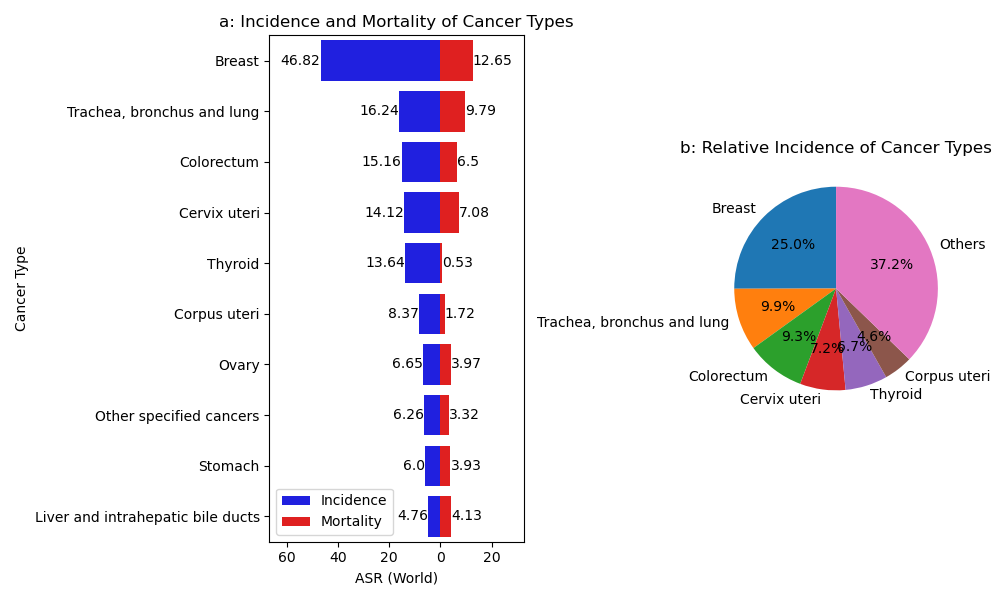
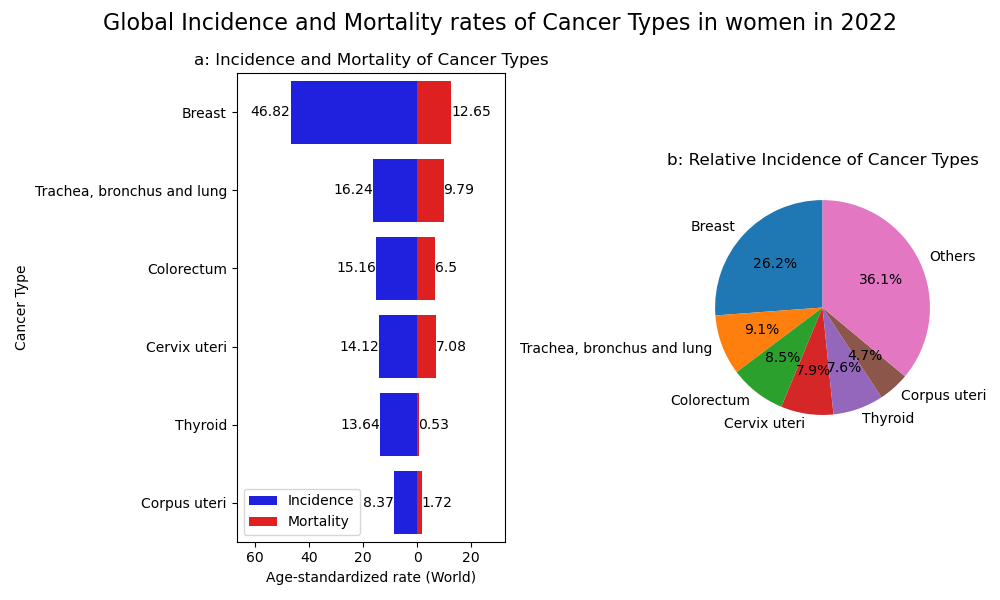
Update BrCa incidence figure

diff --git a/chapters/background/1_brca.tex b/chapters/background/1_brca.tex
@@ -17,9 +17,18 @@ systems\supercite{lei_global_2021}.
     \centering
 
     \includegraphics[width=\textwidth]{chapters/background/figures/incidence.png}
-    \caption{Age-standardized rates of incidence and mortality in women of
-        the 15 most abundant cancer types globally in
-        2022\supercite{bray_global_2024,ferlay_global_2024}.}
+    \caption{Overview of the cancer types with the highest global incidence in
+        females in 2022.
+        Data was obtained from the Global Cancer Observatory
+        \supercite{bray_global_2024,ferlay_global_2024}.
+        Both subplots show the 6 cancer types with the highest incidence.
+        The numbers represent the age-standardized rates of incidence and mortality per
+        100,000 individuals.
+        Age standardization is necessary when comparing populations with different age
+        structures\supercite{segi_age-adjusted_1960,doll_cancer_1966}.
+        \textbf{a}: Absolute incidence and mortality values.
+        \textbf{b}: Relative incidence values.
+    }
     \label{fig:brca_incidence_mortality}
 \end{figure}
 
